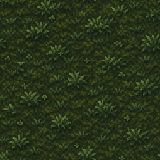
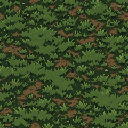
Ground and night light measured against the reference town
Plaza, street, dirt and grass textures redrawn as small bevelled cobbles,
packed earth with pebbles and ruts, and clumped grass, with colours
measured from the user's cobblestone sheet. Night light cooler and a
little darker, lamp pools narrower: screen median brightness 56 -> 38,
warm share 0.35 -> 0.20, cool share 0.07 -> 0.17 (target-town.png:
39 / 0.20 / 0.18).

diff --git a/web/lighting.js b/web/lighting.js
@@ -109,11 +109,11 @@ export class Lighting {
         g.drawImage(this.window, x - r, y - r, r * 2, r * 2);
       } else if (L.footY !== undefined) {
         // street lamp: a softer glow around the lamp, and a bright flattened pool on the ground at its foot
-        g.globalAlpha = Math.min(1, 0.7 * f.i);
+        g.globalAlpha = Math.min(1, 0.5 * f.i);
         const rg = r * 0.75;
         g.drawImage(this.warm, x - rg, y - rg, rg * 2, rg * 2);
         const px = r * 0.95 * f.r, py = r * 0.58 * f.r, fy = L.footY - camY - 3;
-        g.globalAlpha = Math.min(1, 1.0 * f.i);
+        g.globalAlpha = Math.min(1, 0.75 * f.i);
         g.drawImage(this.pool, x - px, fy - py, px * 2, py * 2);
       } else {
         // broad pool + hot core: strong enough to show the stone texture, ambient stays dark

diff --git a/web/config.js b/web/config.js
@@ -30,8 +30,8 @@ export const NATIVE_TARGET_W = 480;     // native view width target (scale = cei
 export const CUTAWAY_FADE = 0.18;       // s, exterior <-> cutaway cross-fade
 
 // Night lighting. AMBIENT is the single strength knob: 0 = pitch black, 1 = daylight.
-export const AMBIENT = 0.72;
-export const AMBIENT_TINT = [0.66, 0.78, 1.0];   // cool blue moonlit night (warm windows and lamps stand out against it)
+export const AMBIENT = 0.70;
+export const AMBIENT_TINT = [0.74, 0.82, 1.0];   // cool blue moonlit night (warm windows and lamps stand out against it)
 export const LIGHT_WARM = [255, 196, 120];
 export const PLAYER_LIGHT_RADIUS = 46;
 
